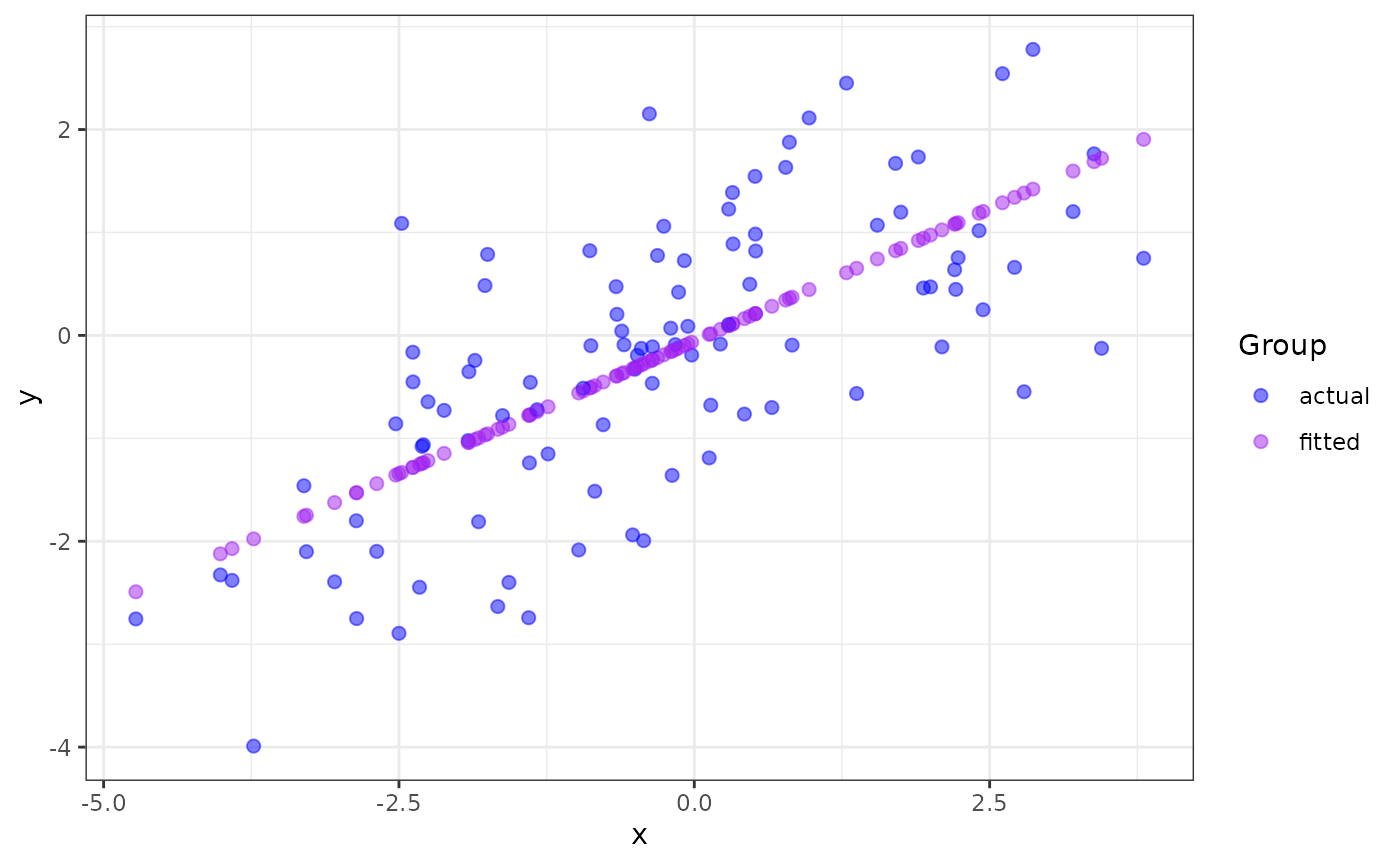
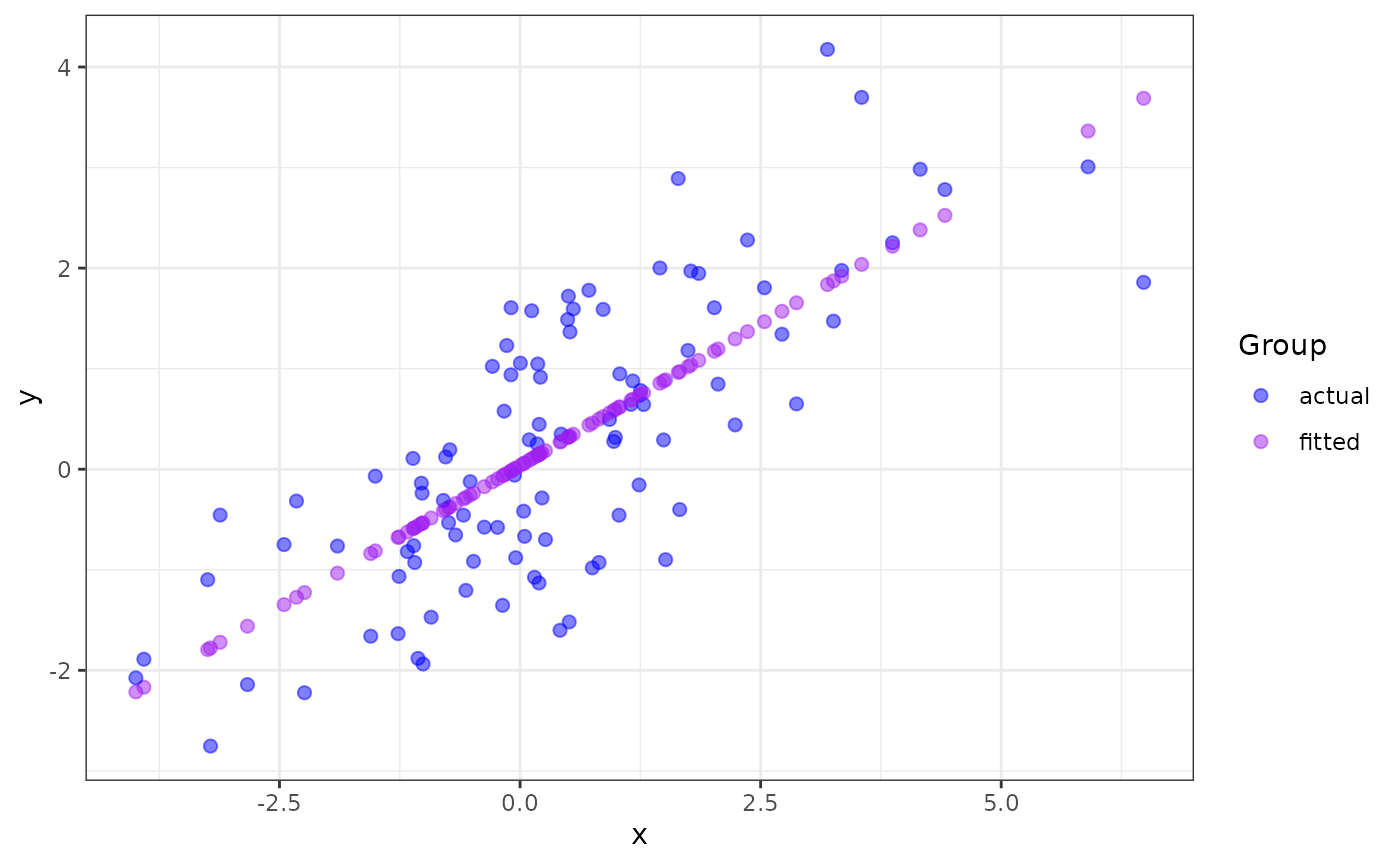
Built site for ggmatplot: 0.1.1@e8226a9

diff --git a/articles/ggmatplot.html b/articles/ggmatplot.html
@@ -103,7 +103,8 @@
 <span class="va">x</span> <span class="op">&lt;-</span> <span class="fu"><a href="https://rdrr.io/r/base/c.html" class="external-link">c</a></span><span class="op">(</span><span class="fu"><a href="https://rdrr.io/r/stats/Normal.html" class="external-link">rnorm</a></span><span class="op">(</span><span class="fl">100</span>, sd <span class="op">=</span> <span class="fl">2</span><span class="op">)</span><span class="op">)</span>
 
 <span class="fu"><a href="https://rdrr.io/r/utils/head.html" class="external-link">head</a></span><span class="op">(</span><span class="va">x</span><span class="op">)</span>
-<span class="co">#&gt; [1] -0.5023851  0.5170562 -3.9128086 -2.4998793 -1.5690095 -2.2542498</span>
+<span class="co">#&gt; [1] -2.240342703  0.990179249  0.003176375  1.744999859  4.415252006</span>
+<span class="co">#&gt; [6]  1.036604535</span>
 
 <span class="co"># matrix z</span>
 <span class="va">y</span> <span class="op">&lt;-</span> <span class="va">x</span> <span class="op">*</span> <span class="fl">0.5</span> <span class="op">+</span> <span class="fu"><a href="https://rdrr.io/r/stats/Normal.html" class="external-link">rnorm</a></span><span class="op">(</span><span class="fl">100</span>, sd <span class="op">=</span> <span class="fl">1</span><span class="op">)</span>
@@ -112,13 +113,13 @@
            fitted <span class="op">=</span> <span class="va">fit.y</span><span class="op">)</span>
 
 <span class="fu"><a href="https://rdrr.io/r/utils/head.html" class="external-link">head</a></span><span class="op">(</span><span class="va">z</span><span class="op">)</span>
-<span class="co">#&gt;       actual     fitted</span>
-<span class="co">#&gt; 1 -0.3286337 -0.3140578</span>
-<span class="co">#&gt; 2  0.9842340  0.2111701</span>
-<span class="co">#&gt; 3 -2.3800934 -2.0711474</span>
-<span class="co">#&gt; 4 -2.8941920 -1.3431899</span>
-<span class="co">#&gt; 5 -2.3999749 -0.8635950</span>
-<span class="co">#&gt; 6 -0.6450821 -1.2166387</span></code></pre></div>
+<span class="co">#&gt;       actual      fitted</span>
+<span class="co">#&gt; 1 -2.2228976 -1.22679576</span>
+<span class="co">#&gt; 2  0.3164453  0.59411653</span>
+<span class="co">#&gt; 3  1.0547918  0.03778362</span>
+<span class="co">#&gt; 4  1.1810804  1.01957785</span>
+<span class="co">#&gt; 5  2.7810329  2.52468910</span>
+<span class="co">#&gt; 6  0.9481198  0.62028455</span></code></pre></div>
 <p><code>ggmatplot</code> plots vector <code>x</code> against each column of matrix <code>z</code> using the default <code>plot_type = "point"</code>. This will be represented on the resulting plot as two groups, identified using different shapes and colors.</p>
 <div class="sourceCode" id="cb2"><pre class="downlit sourceCode r">
 <code class="sourceCode R"><span class="kw"><a href="https://rdrr.io/r/base/library.html" class="external-link">library</a></span><span class="op">(</span><span class="va"><a href="https://github.com/xuan-liang/ggmatplot" class="external-link">ggmatplot</a></span><span class="op">)</span>
